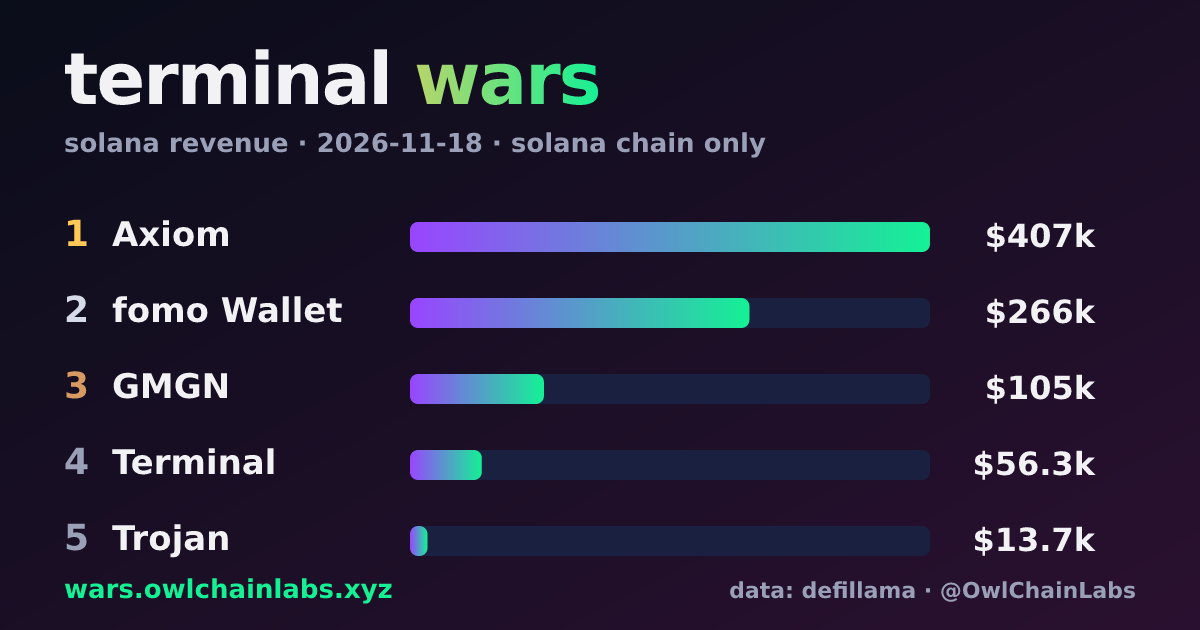
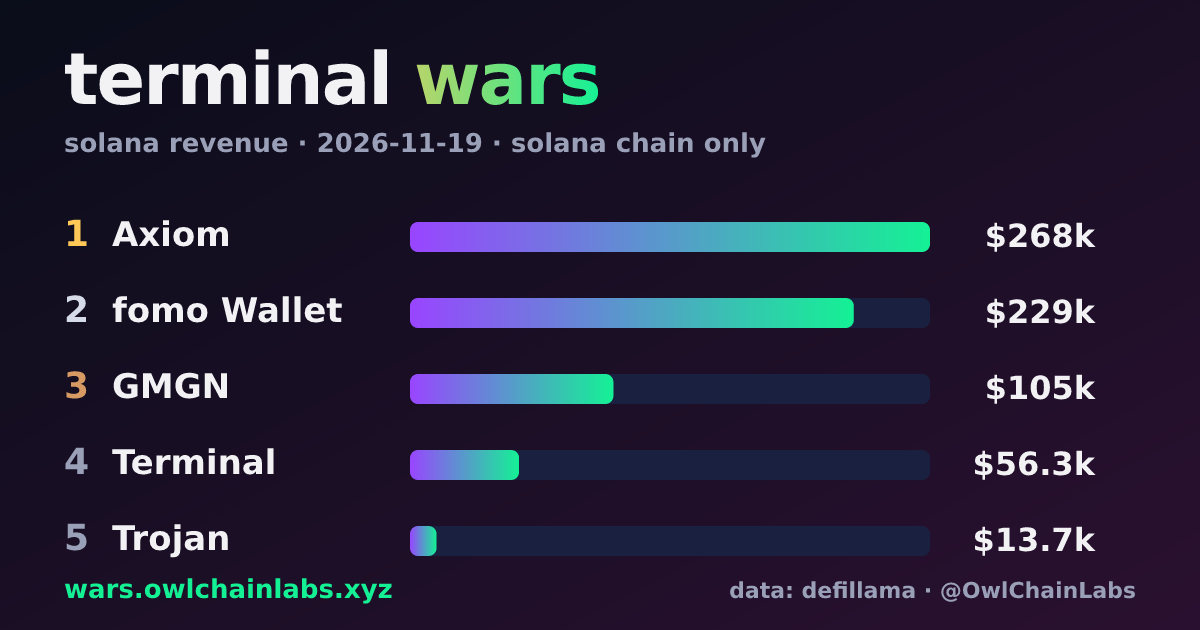
data: 2026-11-20

diff --git a/public/index.html b/public/index.html
@@ -9,8 +9,8 @@
   <meta property="og:title" content="terminal wars">
   <meta property="og:description" content="which solana trading terminal makes the most from you? daily leaderboard.">
   <meta property="og:url" content="https://wars.owlchainlabs.xyz">
-  <meta property="og:image" content="https://wars.owlchainlabs.xyz/og.png?v=2026-11-18">
-  <meta name="twitter:image" content="https://wars.owlchainlabs.xyz/og.png?v=2026-11-18">
+  <meta property="og:image" content="https://wars.owlchainlabs.xyz/og.png?v=2026-11-19">
+  <meta name="twitter:image" content="https://wars.owlchainlabs.xyz/og.png?v=2026-11-19">
   <meta name="twitter:card" content="summary_large_image">
   <meta name="twitter:site" content="@OwlChainLabs">
   <style>
